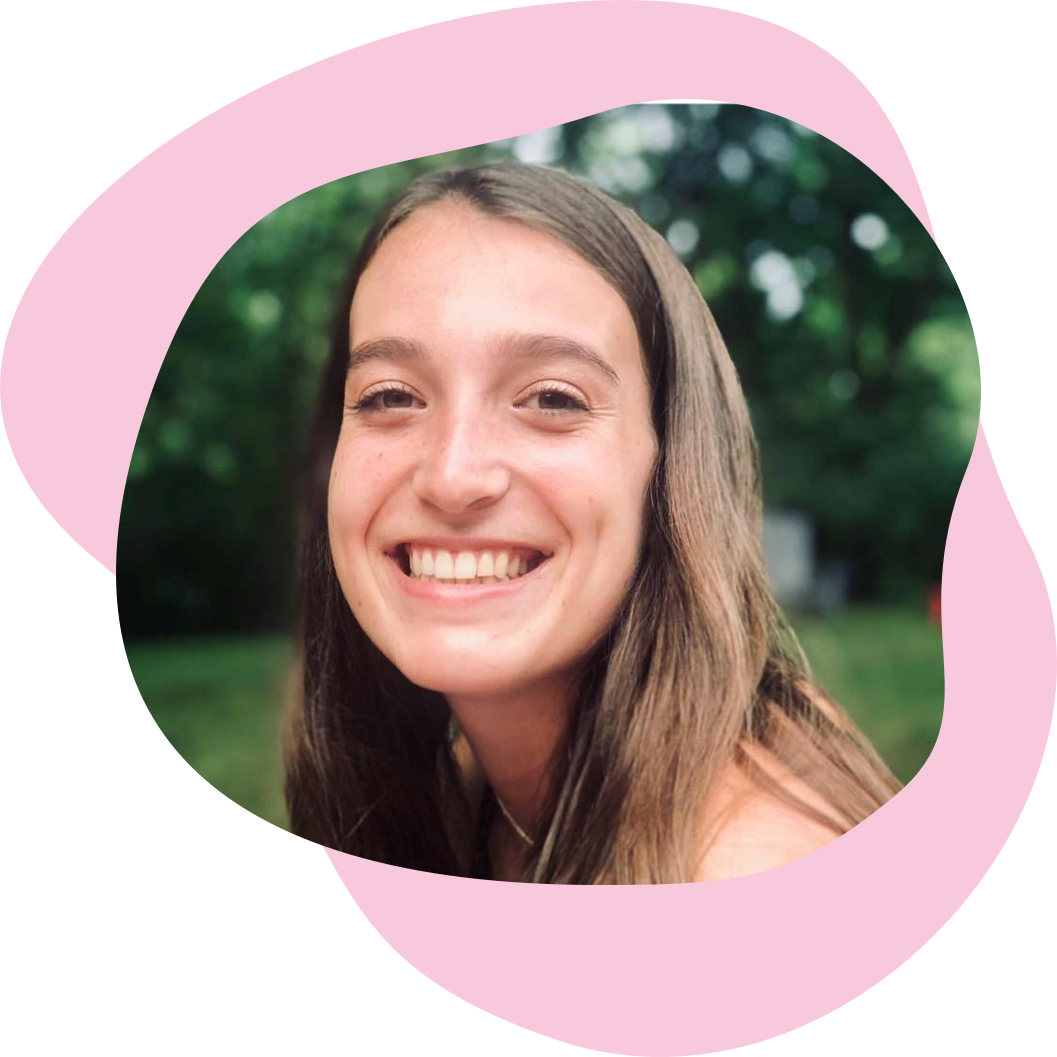
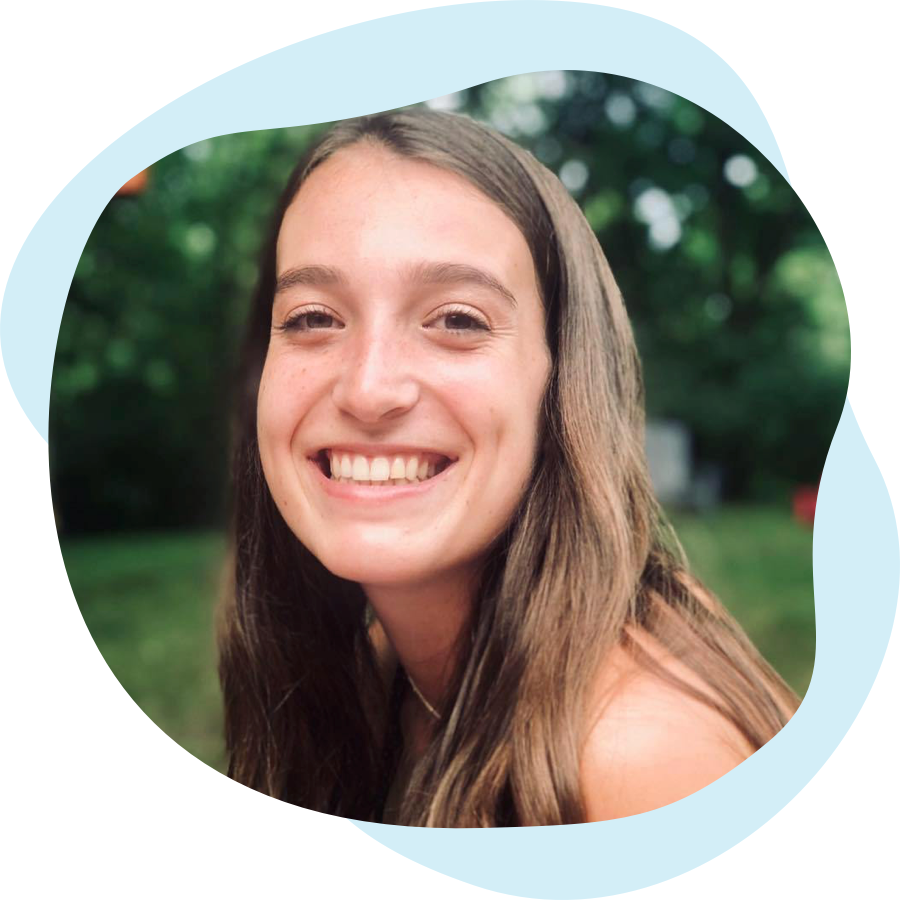
MISC - updated color scheme

diff --git a/index.html b/index.html
@@ -32,7 +32,7 @@ p {
 }
 .section-header {
   font-variant: small-caps;
-  color: #F2668F;
+  color: #008acb;
 }
 .section-text {
   line-height: 1.4;
@@ -55,7 +55,7 @@ p {
           <p><small><span class="glyphicon glyphicon-envelope"></span> yete.info@gmail.com</small></p>
         </div>
         <div class="col-sm-4 text-center">
-	  <br/><br/><img src="yete-blue-bgd.png" class="rounded">
+	  <br/><br/><img src="yete-blue-bgd-lb.png">
         </div>
       </div>
     </div>
@@ -148,7 +148,7 @@ p {
 <footer>
   <div class="container text-center">
     <strong>Contact us at <a href="mailto:yete.info@gmail.com">yete.info@gmail.com</a> to collaborate!</strong>
-  &nbsp;&nbsp;<img src="yete-blue-bgd.png" class="rounded">
+  &nbsp;&nbsp;<img src="yete-blue-bgd-lb.png">
   </div>
 </footer>
 <br/><br/><br/><br/> 
